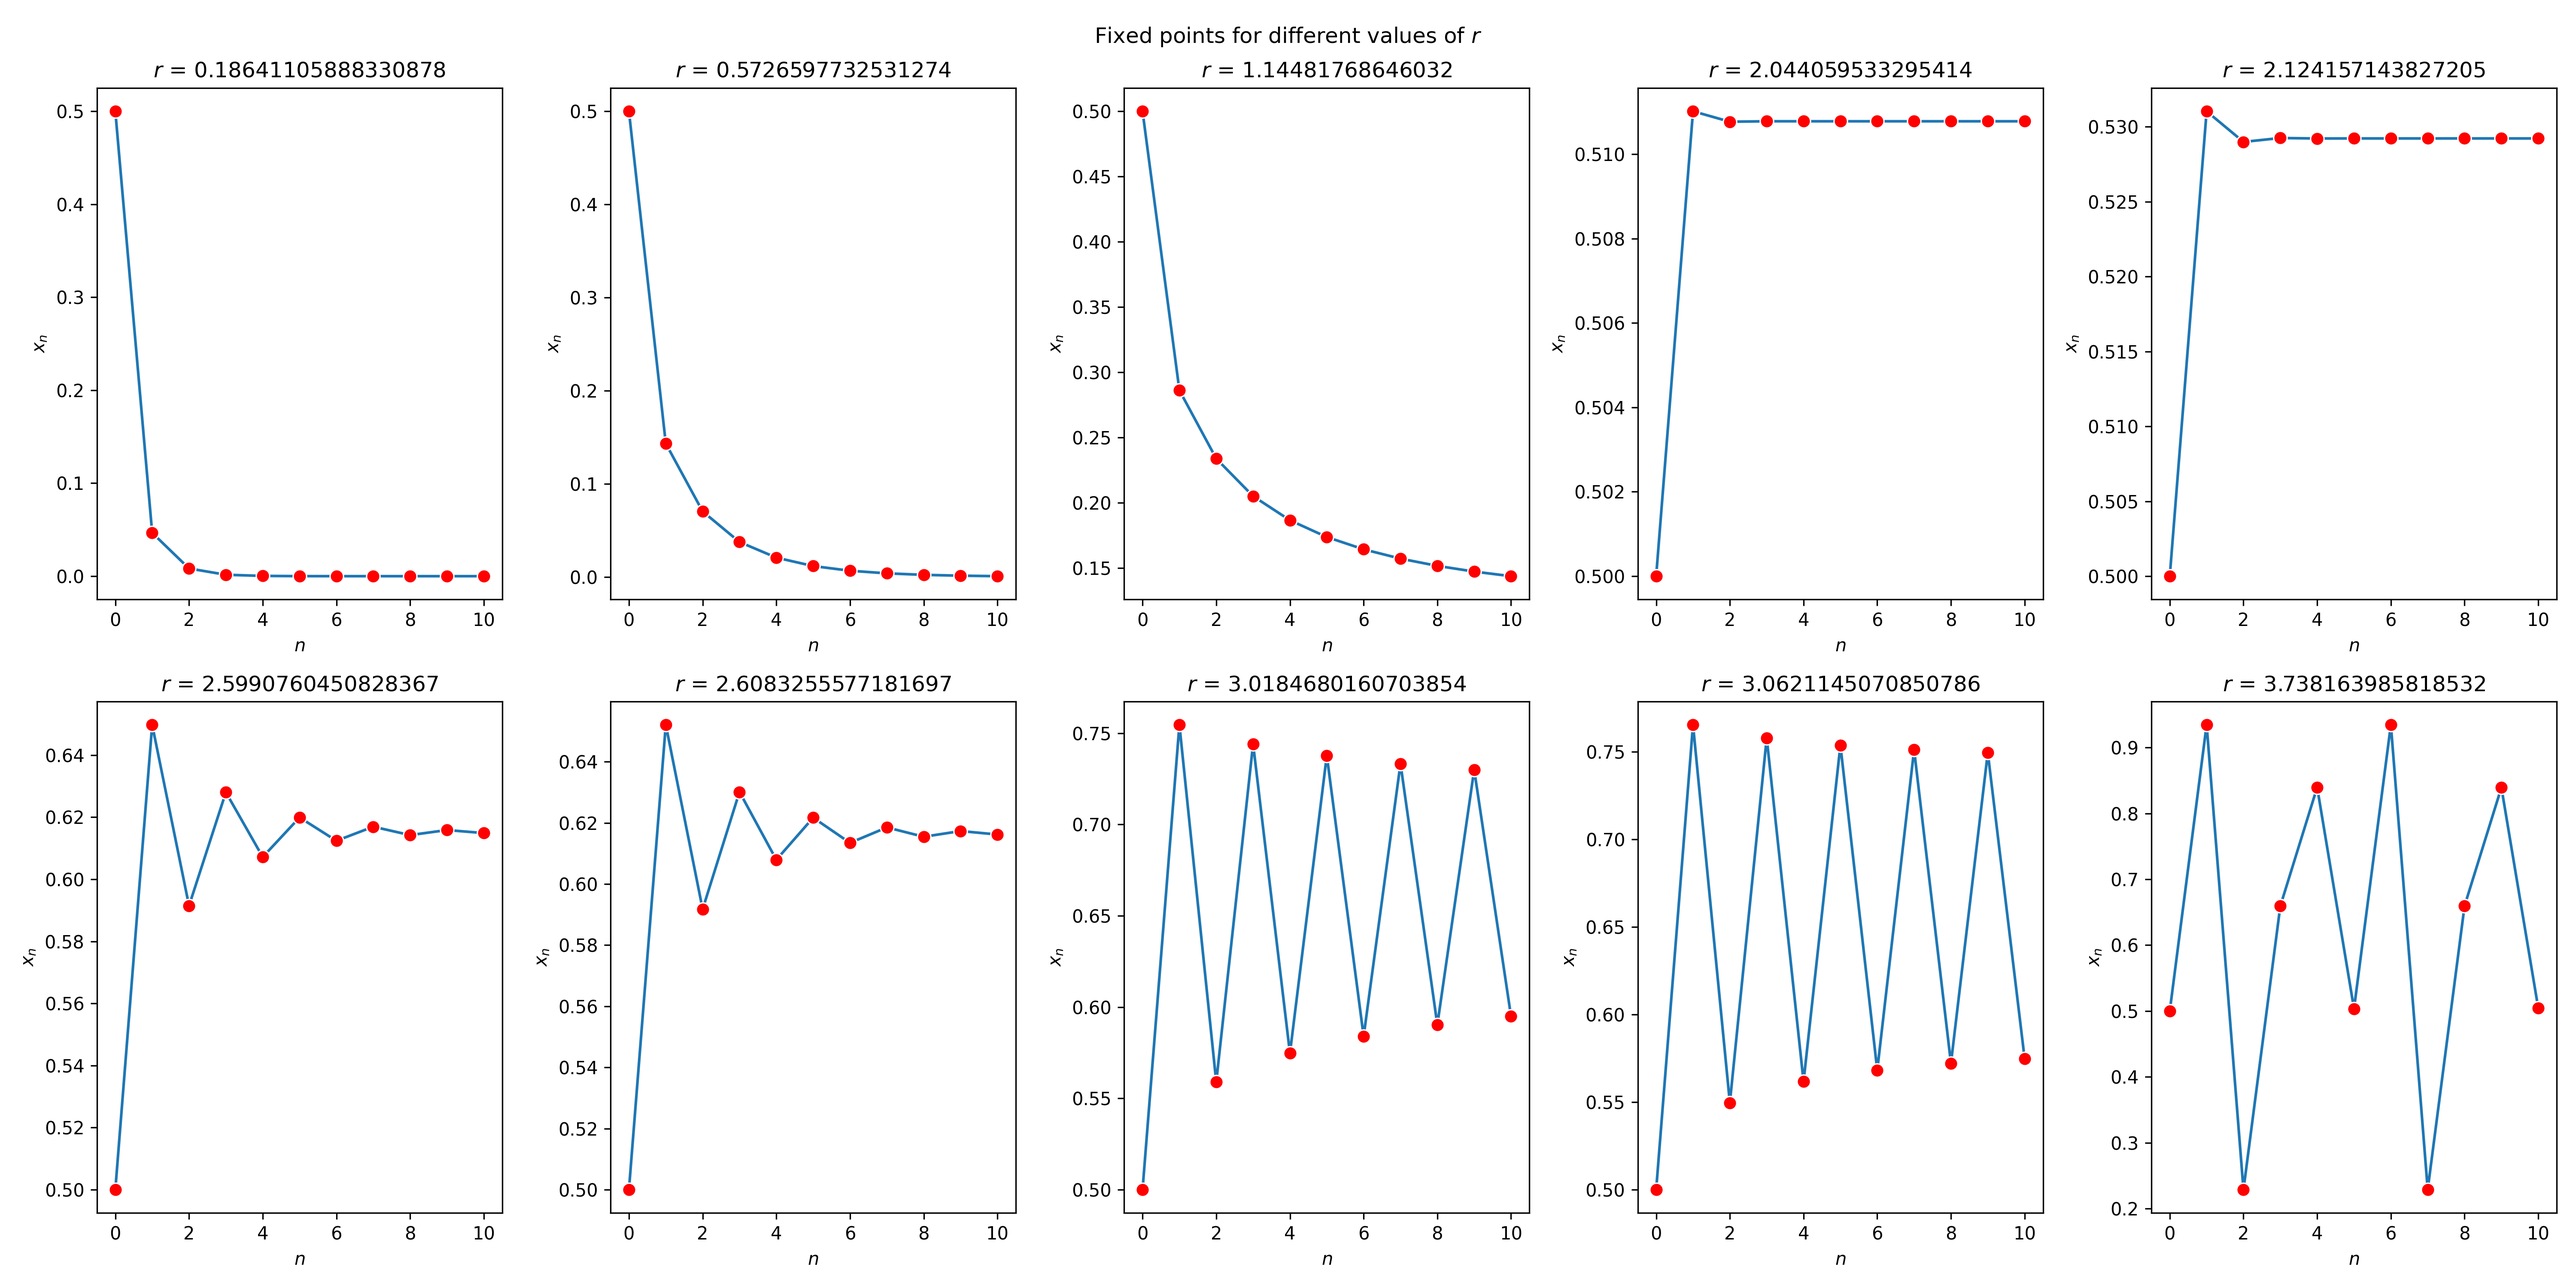
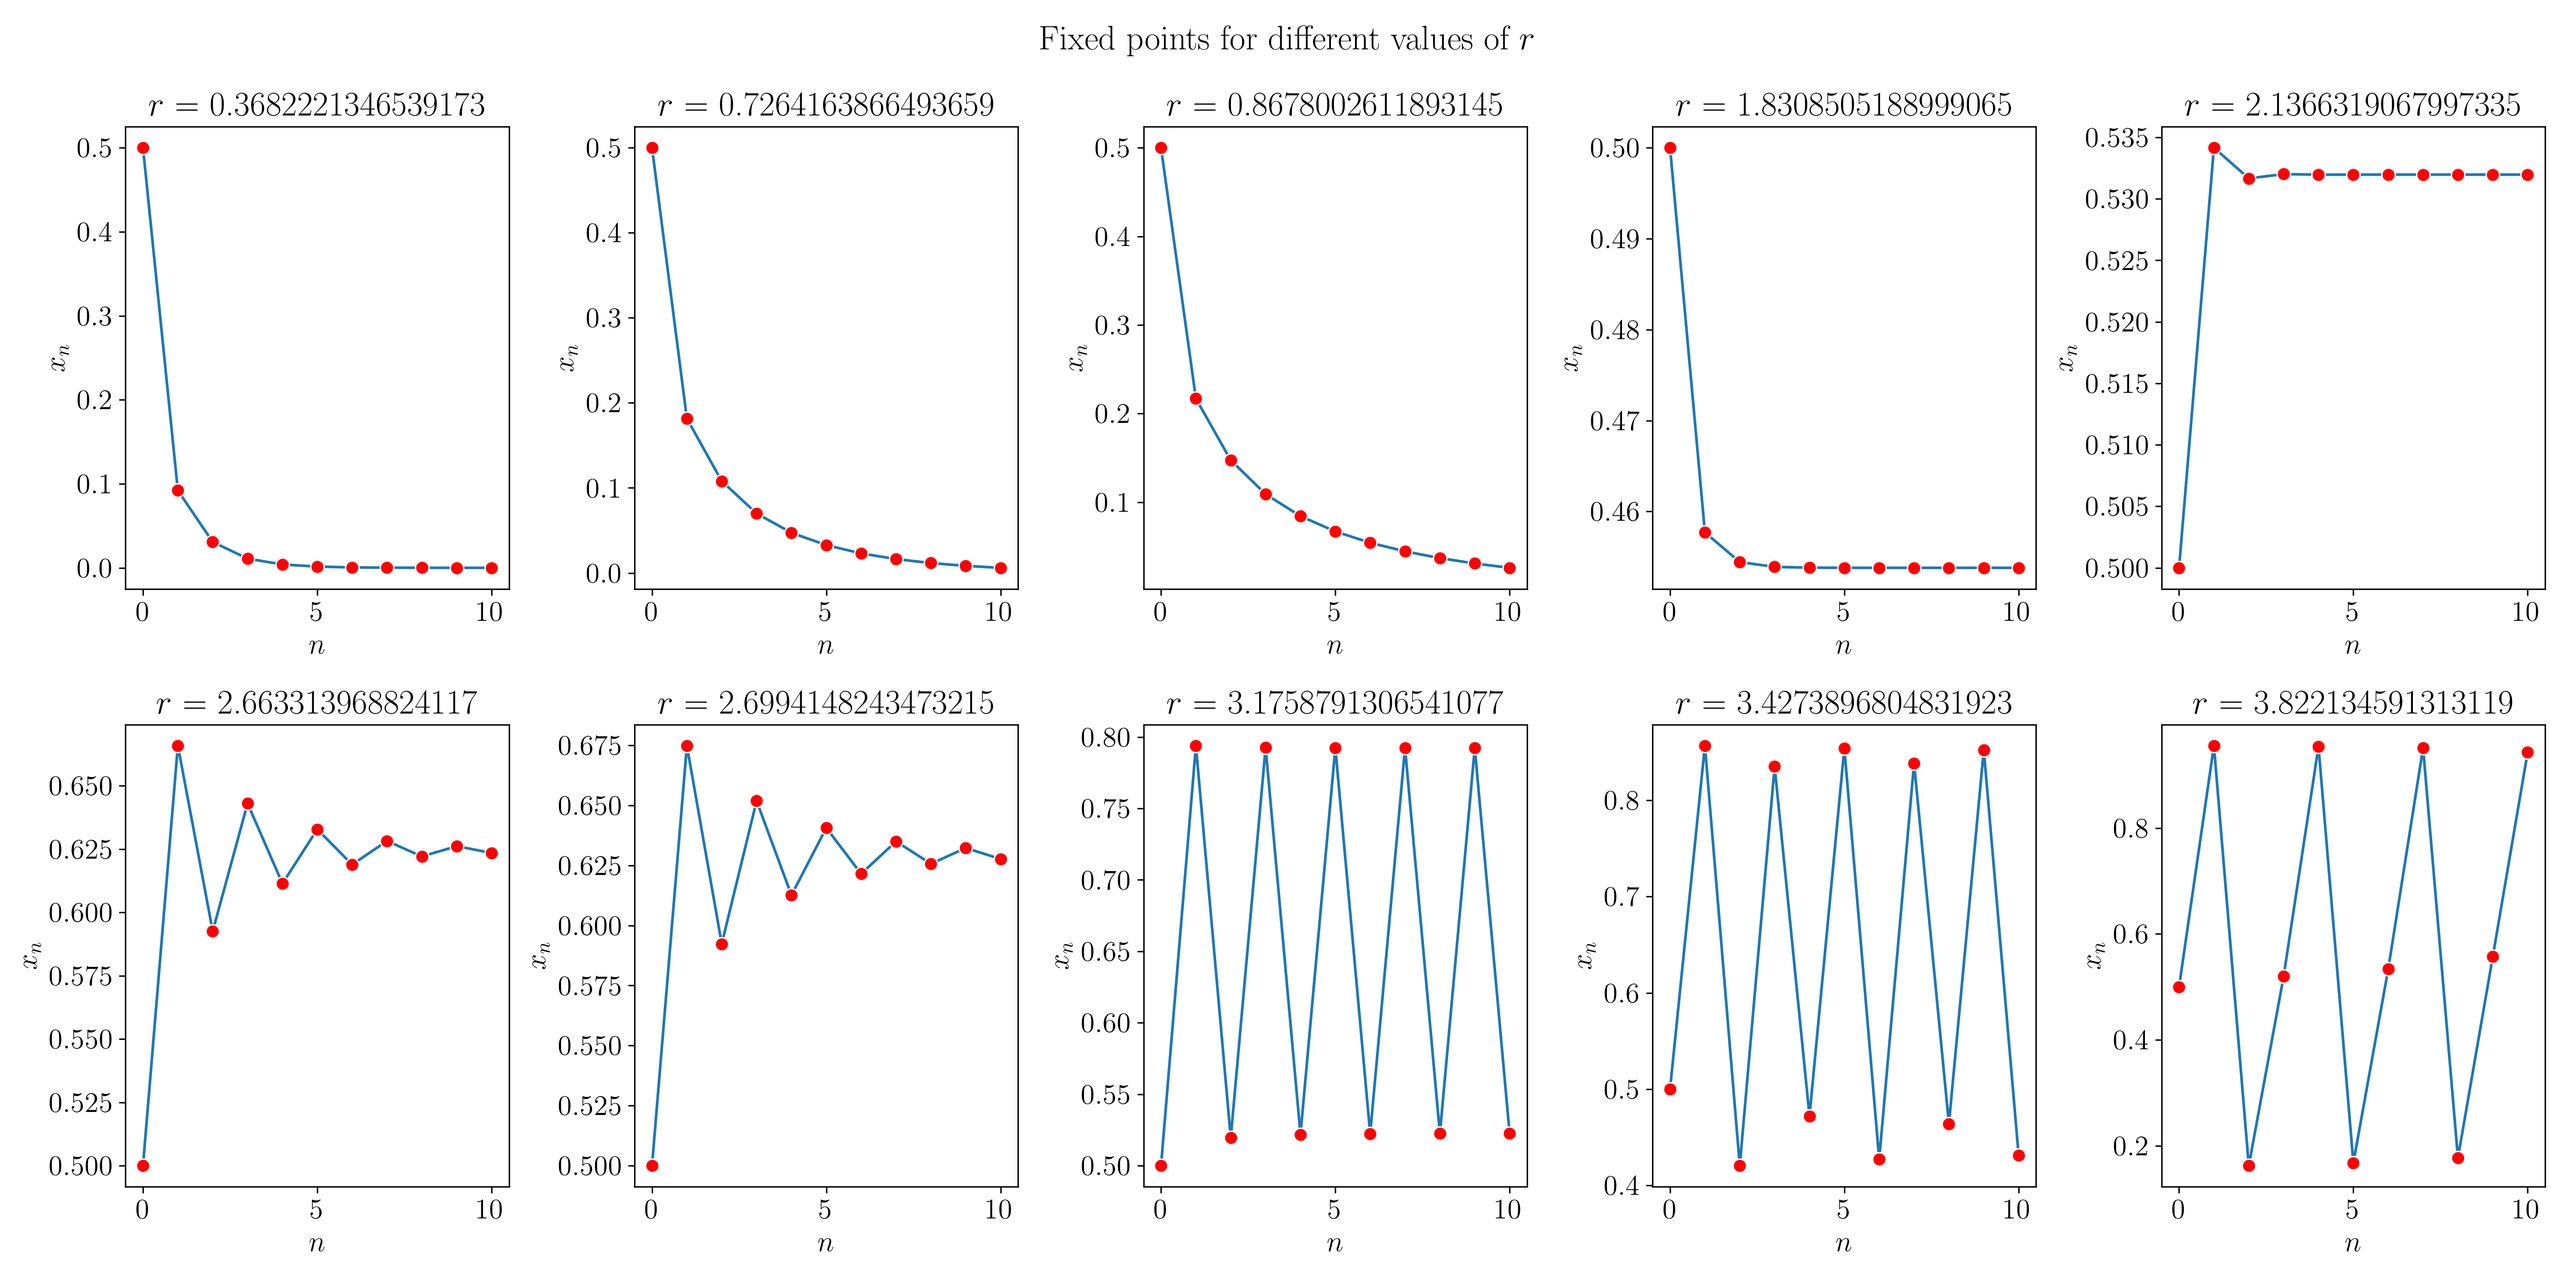
Fixed figures

diff --git a/Tareas/mapeo_logistico.py b/Tareas/mapeo_logistico.py
@@ -15,16 +15,15 @@ Description:
 
 # SECTION - LIBRARIES
 import numpy as np
-# from matplotlib import rc
+from matplotlib import rc  # Enable Latex Figures
 import matplotlib.pyplot as plt
 import seaborn as sns
 
 # !SECTION
 
 # SECTION - MATPLOTLIB LATEX CONFIG
-# Use LaTeX throughout the figure for consistency
-# rc("font", **{"family": "serif", "serif": ["Computer Modern"], "size": 16})
-# rc("text", usetex=True)
+rc("font", **{"family": "serif", "serif": ["Computer Modern"], "size": 16})
+rc("text", usetex=True)
 
 # !SECTION
 
@@ -88,7 +87,7 @@ if __name__ == "__main__":
     ax_1.set_ylabel("$x_n$", size=15)
     ax_1.set_xlabel("$x_{n+1}$", size=15)
     ax_1.set_zlabel("$x_{n+2}$", size=15)
-    # plt.savefig("logistic_map_function_plot.png", dpi=300)  # Uncomment to save figure
+    plt.savefig("logistic_map_function_plot.png", dpi=300)  # Uncomment to save figure
 
     # !SECTION
 
@@ -114,7 +113,7 @@ if __name__ == "__main__":
         mfc="r",
     )
     plt.title(f"Fixed point(s) for r = {r}")
-    # plt.savefig(f"fixed_point_for_r_{r}.png", dpi=300)  # Uncomment to save figure
+    plt.savefig(f"fixed_point_for_r_{r}.png", dpi=300)  # Uncomment to save figure
     # It approaches 0!
 
     # What about multiple values for r?
@@ -151,14 +150,14 @@ if __name__ == "__main__":
             del x_n_list
 
     plt.suptitle("Fixed points for different values of $r$")
-    # plt.savefig("multiple_r_values.png", dpi=300)  # Uncomment to save figure
+    plt.savefig("multiple_r_values.png", dpi=300)  # Uncomment to save figure
     # There are different and sometimes multiple fixed points for a given value of r
 
     # !SECTION
 
     # SECTION - BIFURCTATION PLOT
     # Another way to analyze how the fixed points change is using a bifurcation plot:
-    r_list = np.linspace(start=0, stop=4, num=1000)
+    r_list = np.linspace(start=0, stop=4, num=100)
     n_iterations = 100
 
     fig = plt.figure(figsize=(10,10))
@@ -176,6 +175,6 @@ if __name__ == "__main__":
     plt.title("Bifurcation plot")
     plt.xlabel("$r$")
     plt.ylabel("$x$")
-    plt.savefig("bifuctation_plot.png", dpi=300)
+    plt.savefig("bifurcation_plot.png", dpi=300)
         
 
